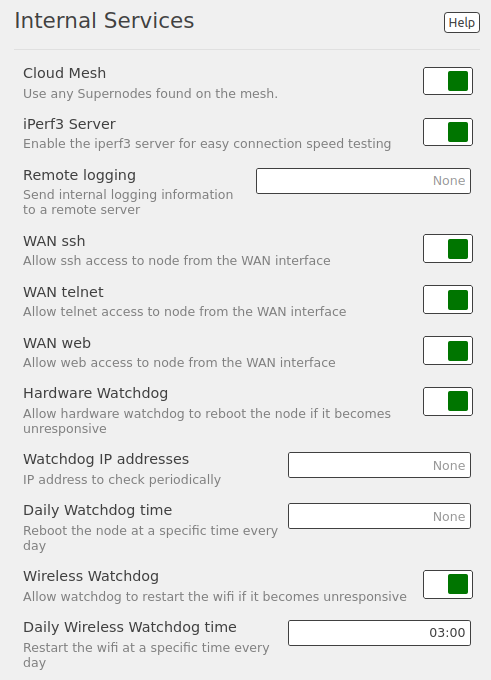
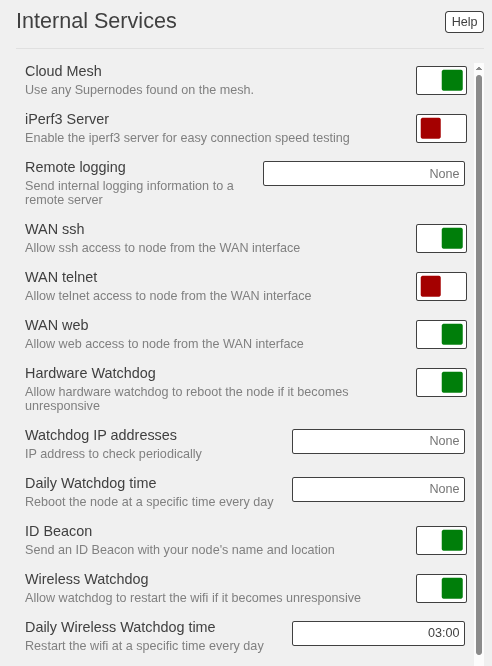
add id beacon setting

Changed region(s): [[0.0305, 0.0901, 0.9776, 0.991], [0.0305, 0.0, 0.3971, 0.0601], [0.9165, 0.0, 0.9776, 0.0601]]

diff --git a/arednGettingStarted/node_admin.rst b/arednGettingStarted/node_admin.rst
@@ -325,7 +325,7 @@ You can click the ``Cancel`` button to ignore any changes you made on this displ
 Internal Services
 -----------------
 
-When you are logged in as *admin* you will see an Internal Services status display at the top of the center column. This shows the state of each of the listed services, which will be described below in more detail. The ``Metrics`` status is informational only, and it simply indicates whether this node is being monitored by providing metrics to an external service (such as `Prometheus <https://en.wikipedia.org/wiki/Prometheus_(software)>`_). The ``Supernode`` status is informational only and indicates whether this node is configured as a Supernode.
+When you are logged in as *admin* you will see an Internal Services status display at the top of the center column. This shows the state of each of the listed services, which will be described below in more detail. The ``Metrics`` status is informational only and simply indicates whether this node is being monitored by providing metrics to an external service (such as `Prometheus <https://en.wikipedia.org/wiki/Prometheus_(software)>`_). The ``Supernode`` status is informational only and indicates whether this node is configured as a Supernode.
 
 .. image:: _images/admin-internal-svc-1.png
  :alt: Admin Internal Services Status
@@ -369,6 +369,9 @@ Hardware Watchdog
 
   Daily Watchdog Time
     This field allows you to set a specific time of the day (between 00:00 and 23:59) to restart the node automatically. The node must get its time from NTP or GPS in order for this reboot to occur.
+
+ID Beacon
+  This switch is ``enabled`` by default, which tells your node to send a beacon that contains your Amateur Radio callsign (as well as the node's location) every few minutes. Periodic Amateur Radio station identification is a requirement in many regions in order to comply with local regulations.
 
 Wireless Watchdog
   This background monitor will restart the mesh radio if it becomes unresponsive. If Wireless Watchdog is enabled, the following fields will also be displayed.
